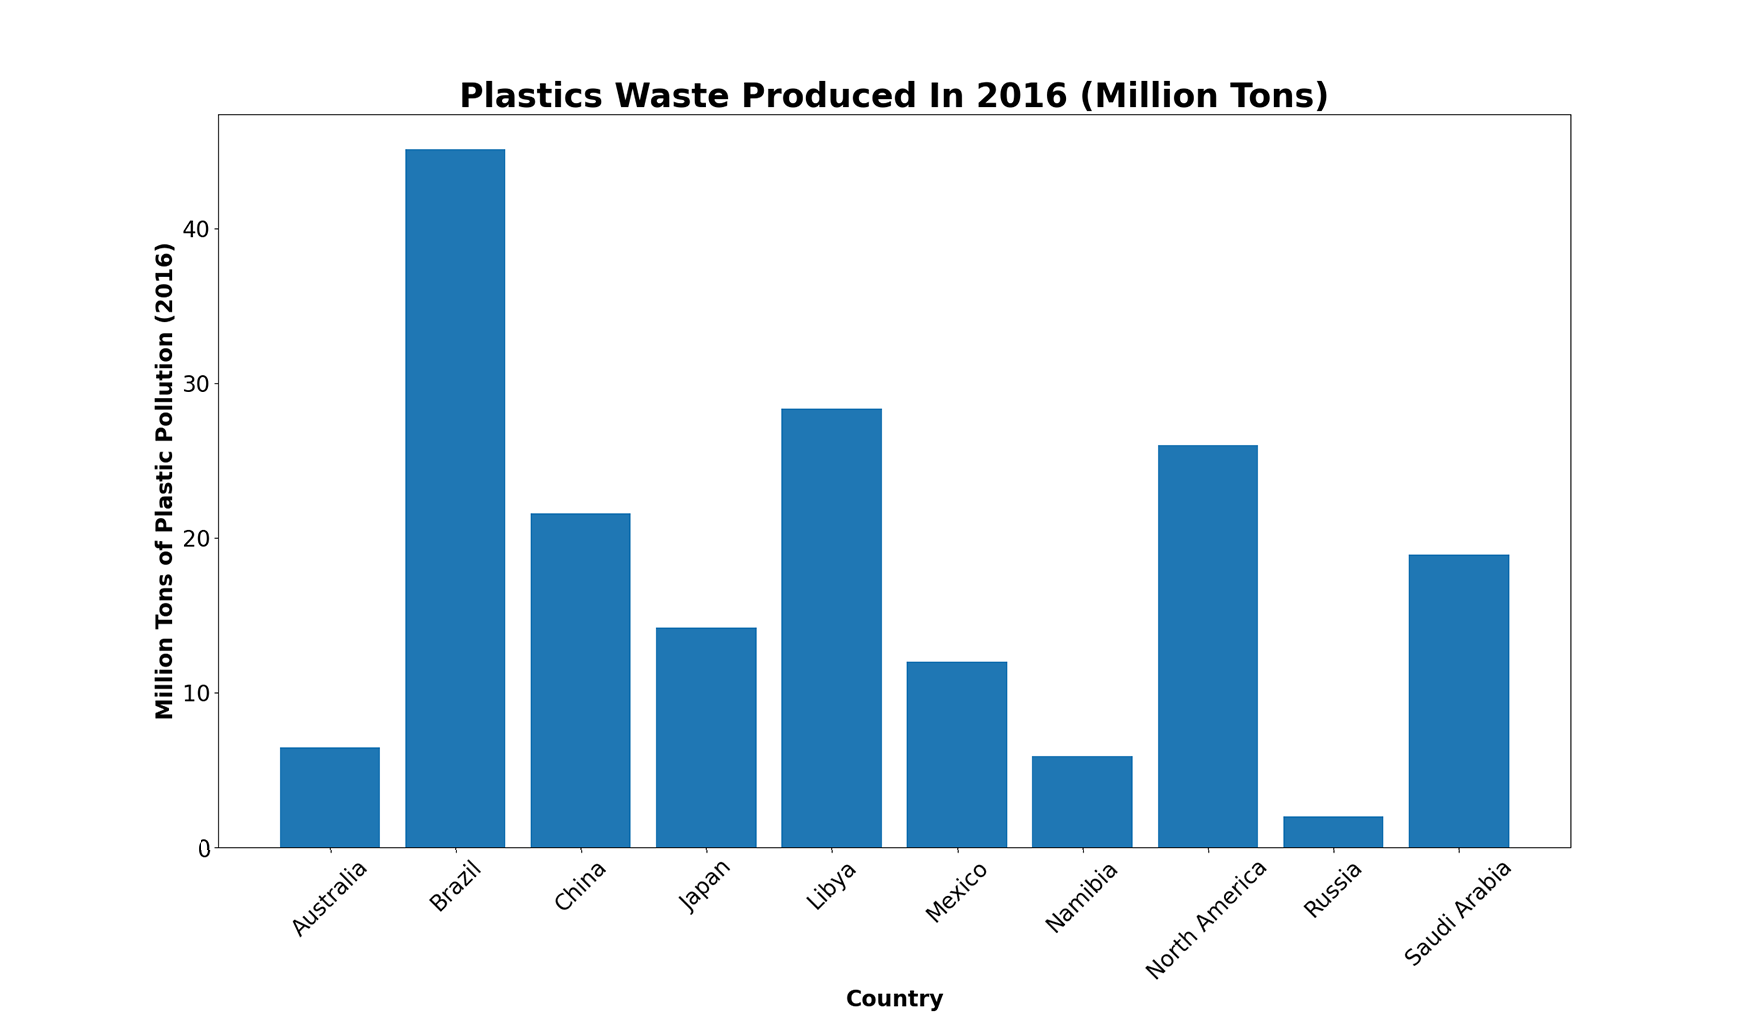
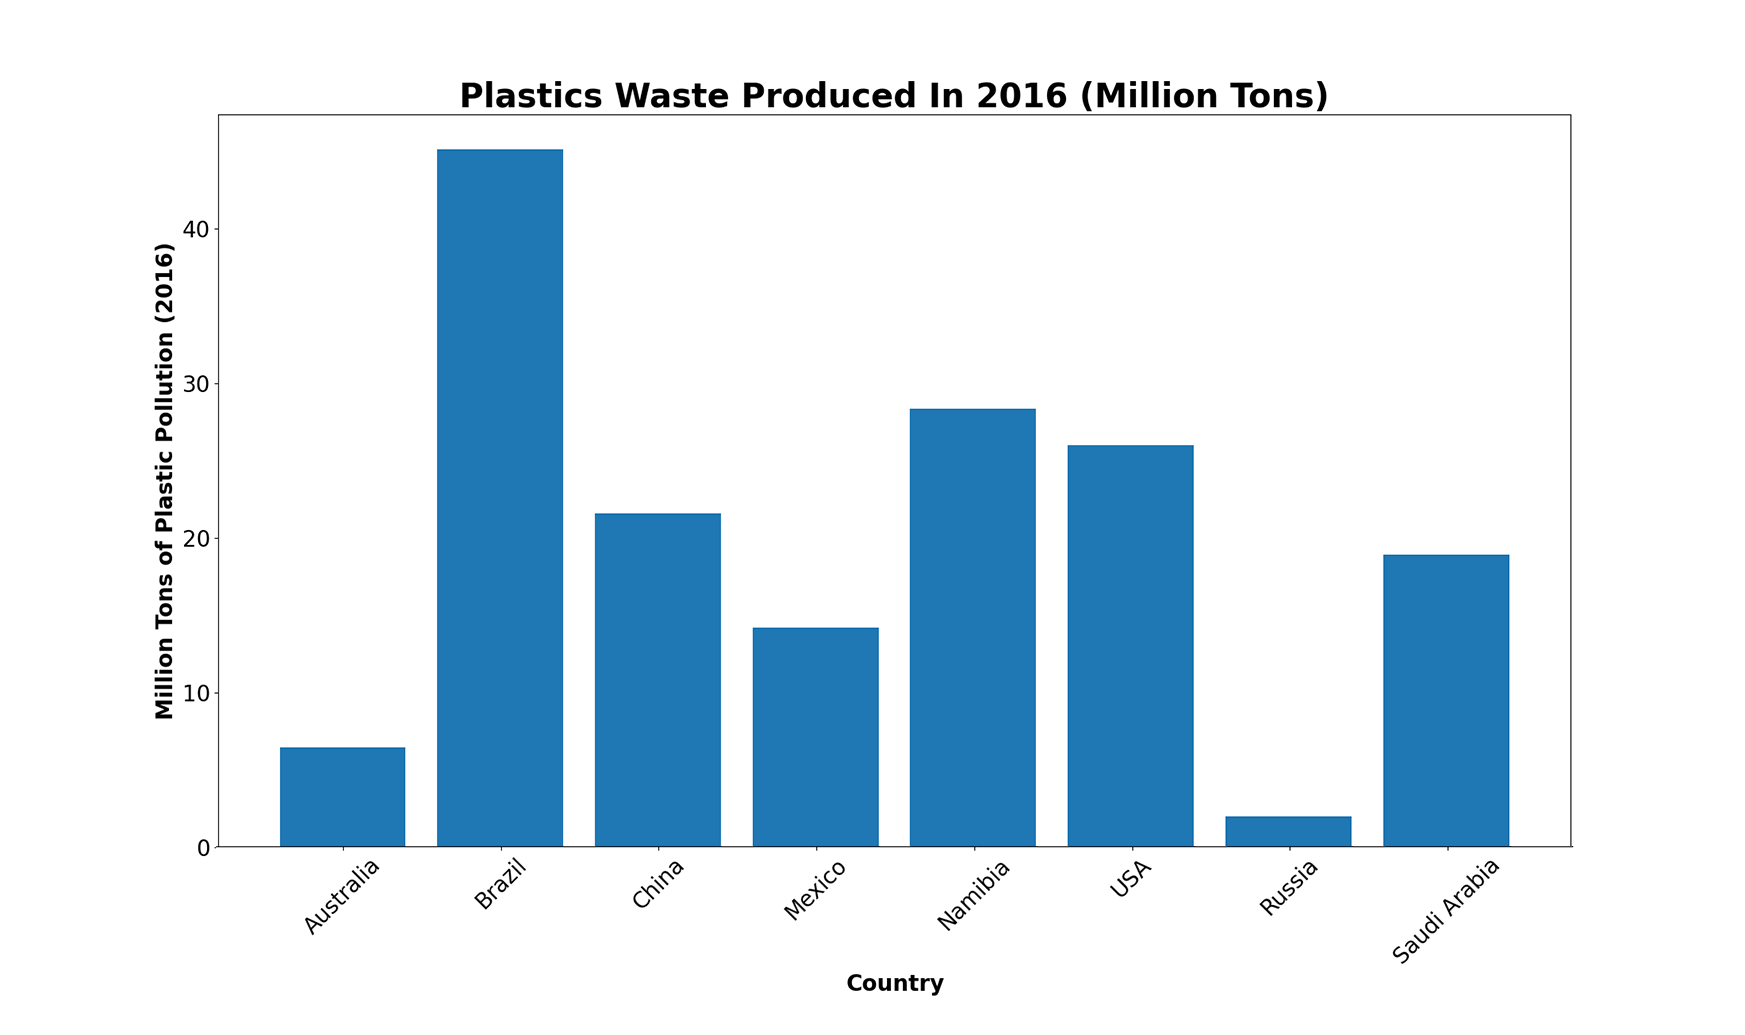
commit 2

diff --git a/css/styles.css b/css/styles.css
@@ -1,0 +1,125 @@
+*{
+  margin: 0;
+  padding: 0;
+}
+body{
+  font-family: 'Manrope', sans-serif;
+  background-color: hsl(210, 46%, 95%);
+  align-items: center;
+  min-height: 100vh;
+}
+img{
+  height: 600px;
+  margin: 0px auto 0px auto;
+  display: flex;
+}
+.maincontainer{
+  border-radius: 10px;
+  background-color: white;
+  width: 50%;
+  max-height: 400px;
+  min-width: 600px;
+  margin: 20px auto 20px auto;
+  overflow: hidden;
+  box-shadow: 10px 10px 10px 0.8;
+  display: flex;
+  text-align: center;
+  justify-content: center;
+}
+.key{
+  border-radius: 10px;
+  background-color: gray;
+  width: 50px;
+  height: 50px;
+  margin: 20px;
+  display: inline;
+  box-shadow: 10px 10px 10px 0.8;
+}
+.articlecontainer{
+  width: 60%;
+  height: 100%;
+}
+h1{
+  color: hsl(217, 19%, 35%);
+  font-size: 2em;
+  text-align: center;
+  margin:20px;
+  height: 25%;
+  display: inline-block;
+}
+form{
+  font-size: 1rem;
+  font-family: 'Manrope', sans-serif;
+  font-weight: 600;
+  padding: 20px;
+}
+.centered {
+display: flex;
+justify-content: center;
+border-radius: 10px;
+background-color: white;
+box-shadow: 10px 10px 10px 0.8;
+width: 30%;
+margin: 20px auto 20px auto;
+}
+.centered2{
+  text-align: center;
+  margin: 200px auto 0 auto;
+}
+.button{
+  padding: 20px;
+  background-color: lightgray;
+  margin: 10px 20px;
+  border-radius: 10px;
+}
+p{
+  color: hsl(217, 19%, 35%);
+  font-size: 2em;
+  text-align: center;
+  font-weight: 700;
+}
+.previewimg{
+  width: 100%;
+  height: 100%;
+}
+.aviimg{
+  border-radius: 50%;
+  height: 2.5em;
+  width: 2.5em;
+  margin-right: 20px;
+  float: left;
+}
+.articletext{
+  margin: 20px;
+  color: hsl(214, 17%, 51%);
+  font-size: auto;
+  font-weight: 500;
+}
+.name{
+color: hsl(217, 19%, 35%);
+display: inline-block;
+width: 45%;
+}
+.date{
+color: hsl(212, 23%, 69%);
+display: inline-block;
+width: 45%;
+}
+.sharebtn{
+  border-radius: 50%;
+  height: 2.5em;
+  width: 2.5em;
+  background-color: hsl(217, 19%, 35%);
+  position: absolute;
+  right:0px;
+  top: 0px;
+
+}
+.sharecontainer{
+  margin: 20px;
+  position: relative;
+}
+.sharebtn img{
+  fill: white;
+  margin:auto;
+}

diff --git a/index copy.html b/index copy.html
@@ -1,0 +1,23 @@
+<!DOCTYPE html>
+<html lang="en" dir="ltr">
+  <head>
+    <meta charset="utf-8">
+    <link href="https://fonts.googleapis.com/css2?family=Manrope:wght@500;700&display=swap" rel="stylesheet">
+    <title>Article Preview</title>
+    <link rel="stylesheet" href="css/styles.css">
+  </head>
+  <body>
+    <div class="centered2"><h1> Consent Form</h1>
+      <h2> I consent to my data being collected and used as part of the experiment. <br> The results may be shared with others.</h2></div>
+<br>
+<div class="centered">
+  <form action="/action_page.php">
+    <input type="checkbox" id="vehicle3" name="vehicle3" value="Boat">
+    <label for="vehicle3"> I agree</label><br><br>
+    <input type="submit" value="Submit">
+  </form>
+</div>
+
+
+  </body>
+</html>

diff --git a/index.html b/index.html
@@ -1,0 +1,26 @@
+<!DOCTYPE html>
+<html lang="en" dir="ltr">
+  <head>
+    <meta charset="utf-8">
+    <link href="https://fonts.googleapis.com/css2?family=Manrope:wght@500;700&display=swap" rel="stylesheet">
+    <title>Article Preview</title>
+    <link rel="stylesheet" href="css/styles.css">
+  </head>
+  <body>
+    <div class="maincontainer">
+      <h1>Question: Which quartile is Australia in?</h1>
+      
+    </div>
+    <br>
+    <img src="img/bar.png" alt="">
+<br>
+<div class="centered">
+  <div class="button"><p>1</p></div>
+  <div class="button"><p>2</p></div>
+  <div class="button"><p>3</p></div>
+  <div class="button"><p>4</p></div>
+</div>
+
+
+  </body>
+</html>

diff --git a/map2.py b/map2.py
@@ -25,7 +25,7 @@ df = pd.read_csv(filename, usecols=cols)
 df.set_index('Country Code', inplace=True)
 #df = df.loc[iso3_codes].dropna()
 values = df["Waste"]
-cm = plt.get_cmap('Greens')
+cm = plt.get_cmap('summer')
 scheme = [cm(i / colors) for i in range(colors)]
 bins = np.linspace(values.min(), values.max(), colors)
 df['bin'] = np.digitize(values, bins) - 1
@@ -57,13 +57,14 @@ for info, shape in zip(m.units_info, m.units):
 ax.axhspan(0, 1000 * 1800, facecolor='w', edgecolor='w', zorder=2)
 
 # Draw color legend.
-ax_legend = fig.add_axes([0.35, 0.14, 0.3, 0.03], zorder=3)
+ax_legend = fig.add_axes([0.2, 0.14, 0.6, 0.03], zorder=3)
 cmap = mpl.colors.ListedColormap(scheme)
 print(bins)
+#cb = mpl.colorbar.ColorbarBase(ax_legend, cmap=cm, ticks=bins, boundaries=bins, orientation='horizontal')
 cb = mpl.colorbar.ColorbarBase(ax_legend, cmap=cm, orientation='horizontal')
-#cb = mpl.colorbar.ColorbarBase(ax_legend, cmap=cmap, orientation='horizontal')
 
 cb.ax.set_xticklabels([str(round(i, 1)) for i in bins])
+plt.xticks(fontsize=20)
 
 # Set the map footer.
 

diff --git a/bar.py b/bar.py
@@ -9,9 +9,9 @@ import numpy as np
 
 fig, ax = plt.subplots(figsize=(22, 12))
 # top 10 countries
-countries = ["Australia", "Brazil", "China", "Japan", "Libya", "Mexico", "Namibia", "North America", "Russia", "Saudi Arabia"]
+countries = ["Australia", "Brazil", "China", "Mexico", "Namibia", "USA", "Russia", "Saudi Arabia"]
 # total million tons 2016
-pollution = [6.47, 45.1, 21.6, 14.2, 28.33, 12, 5.9, 26, 2, 18.9]
+pollution = [6.47, 45.1, 21.6, 14.2, 28.33, 26, 2, 18.9]
 
 
 ax.bar(countries, pollution)
@@ -21,6 +21,6 @@ plt.rc('font', size=30)
 plt.xticks(fontsize=20, rotation=45)
 plt.yticks(fontsize=20)
 plt.title("Plastics Waste Produced In 2016 (Million Tons)",fontsize=30,fontweight="bold")
-plt.savefig('1.png')
+plt.savefig('0.png')
 plt.show()
 
